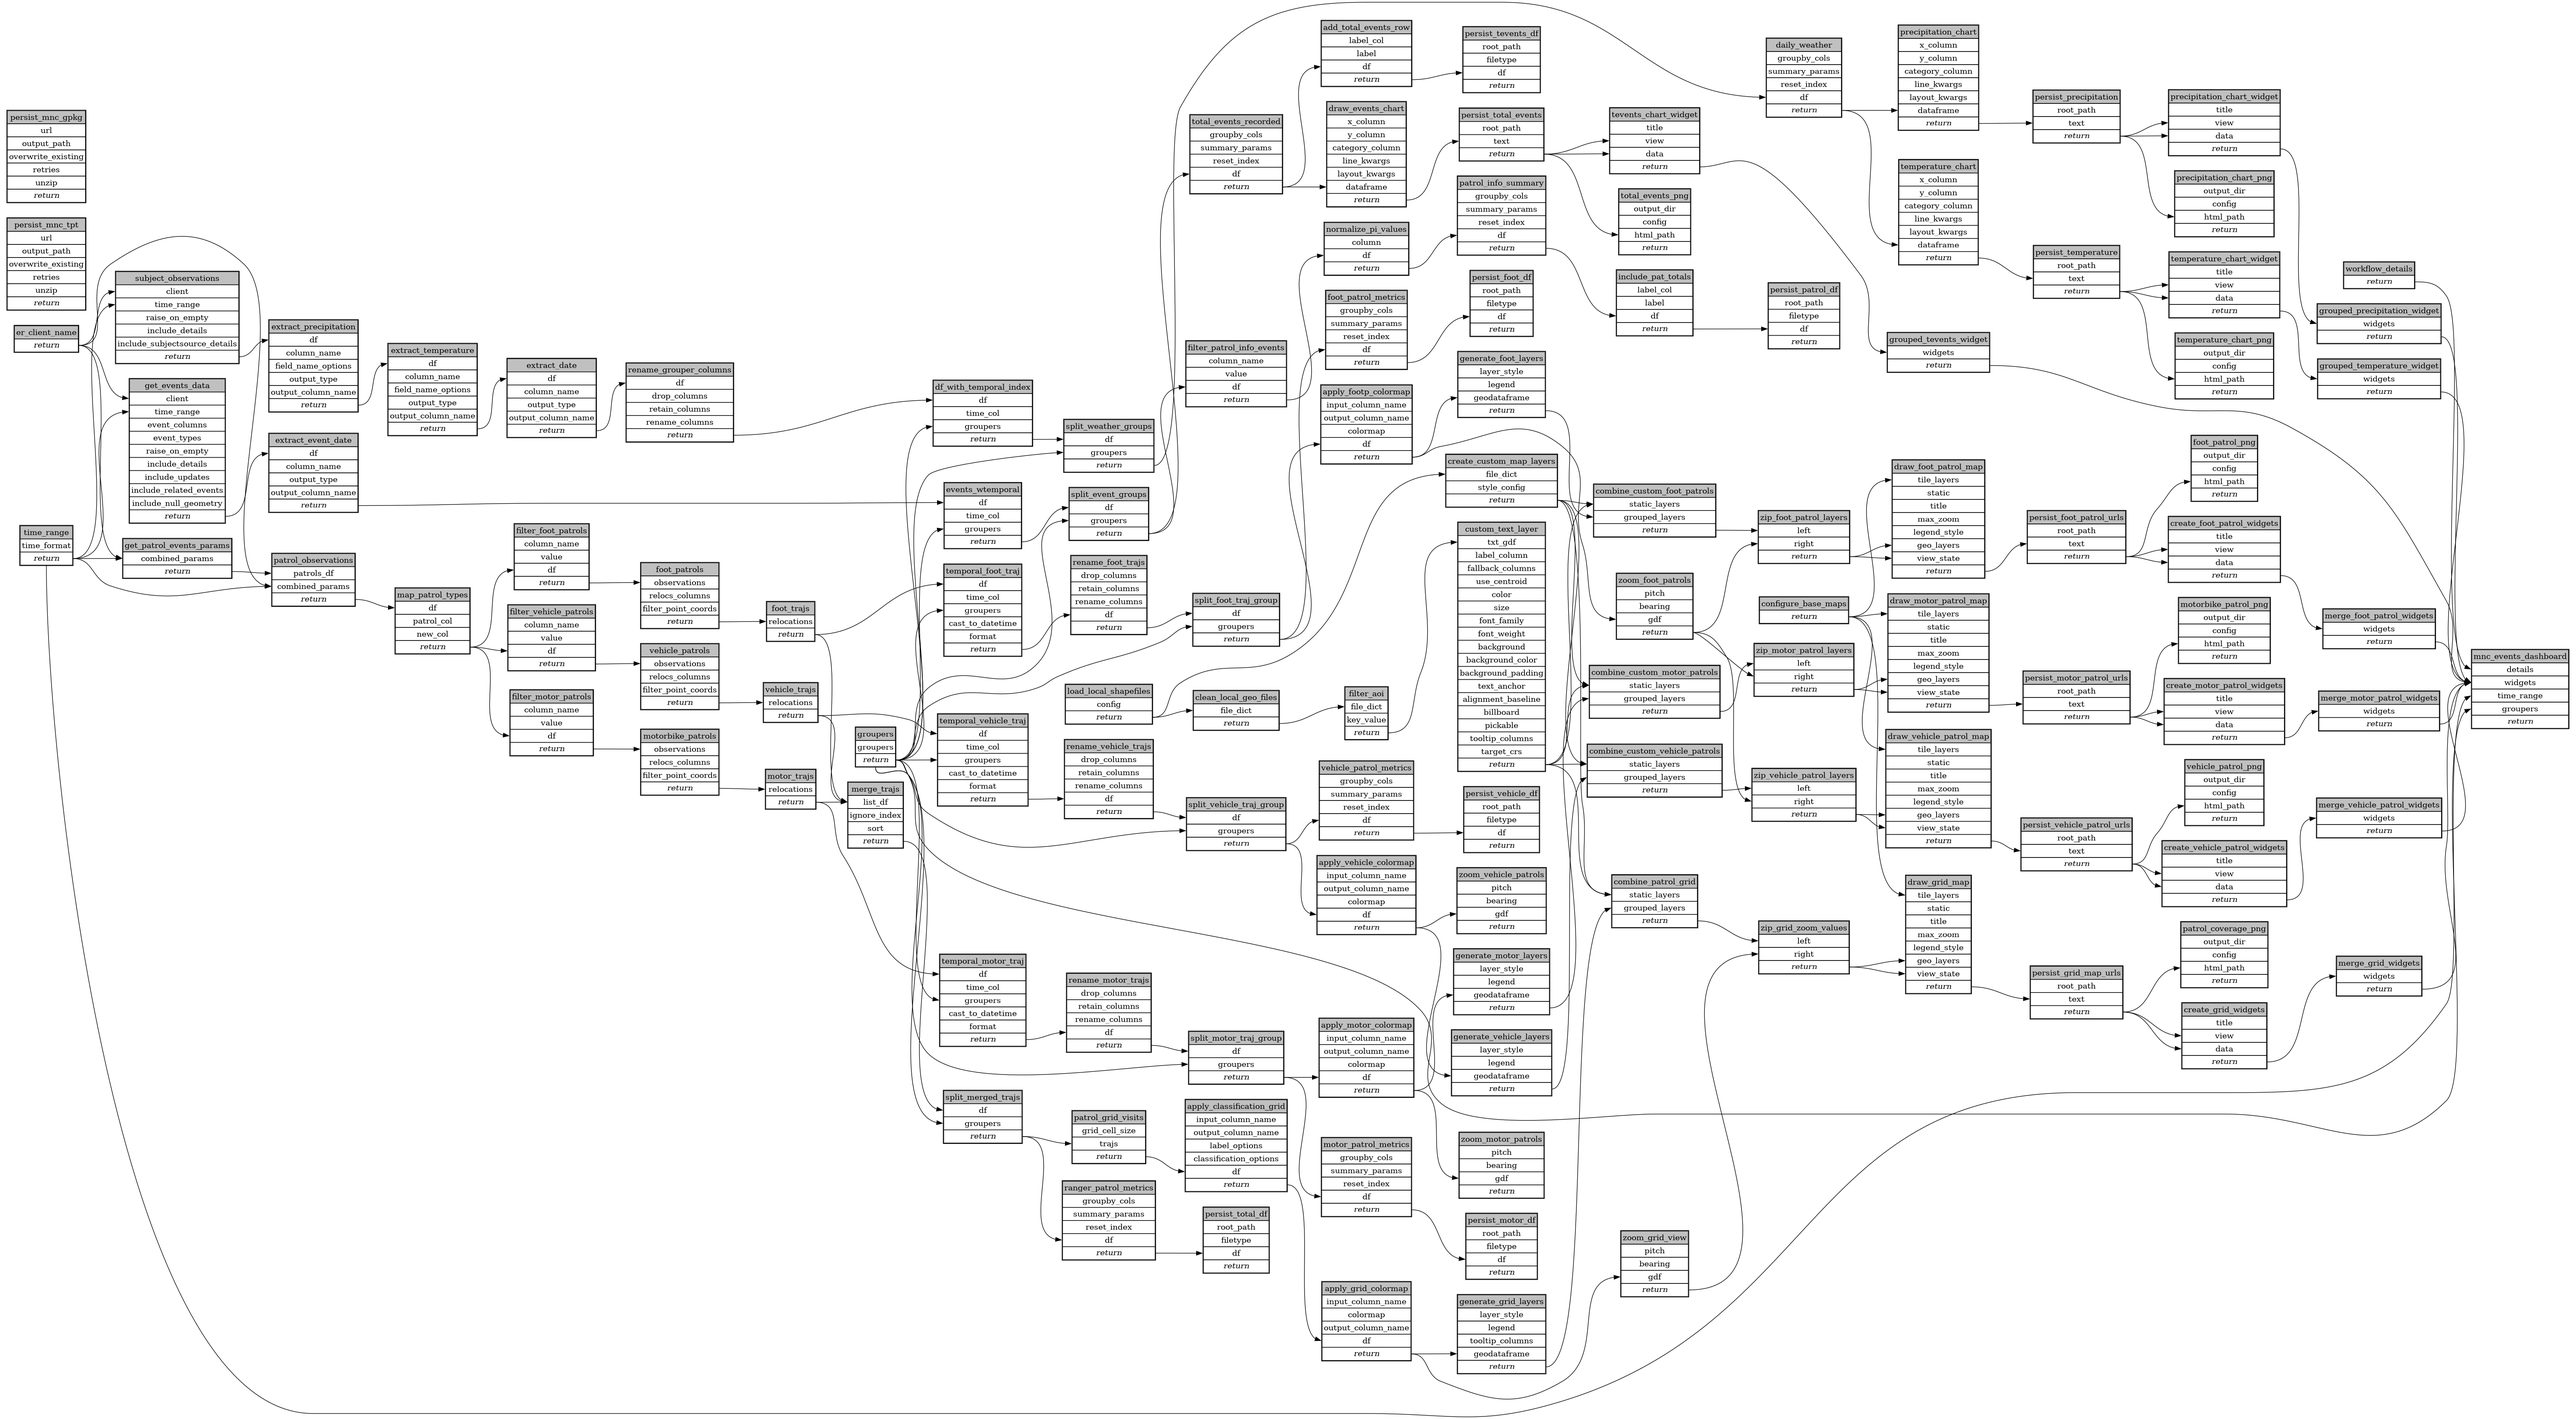
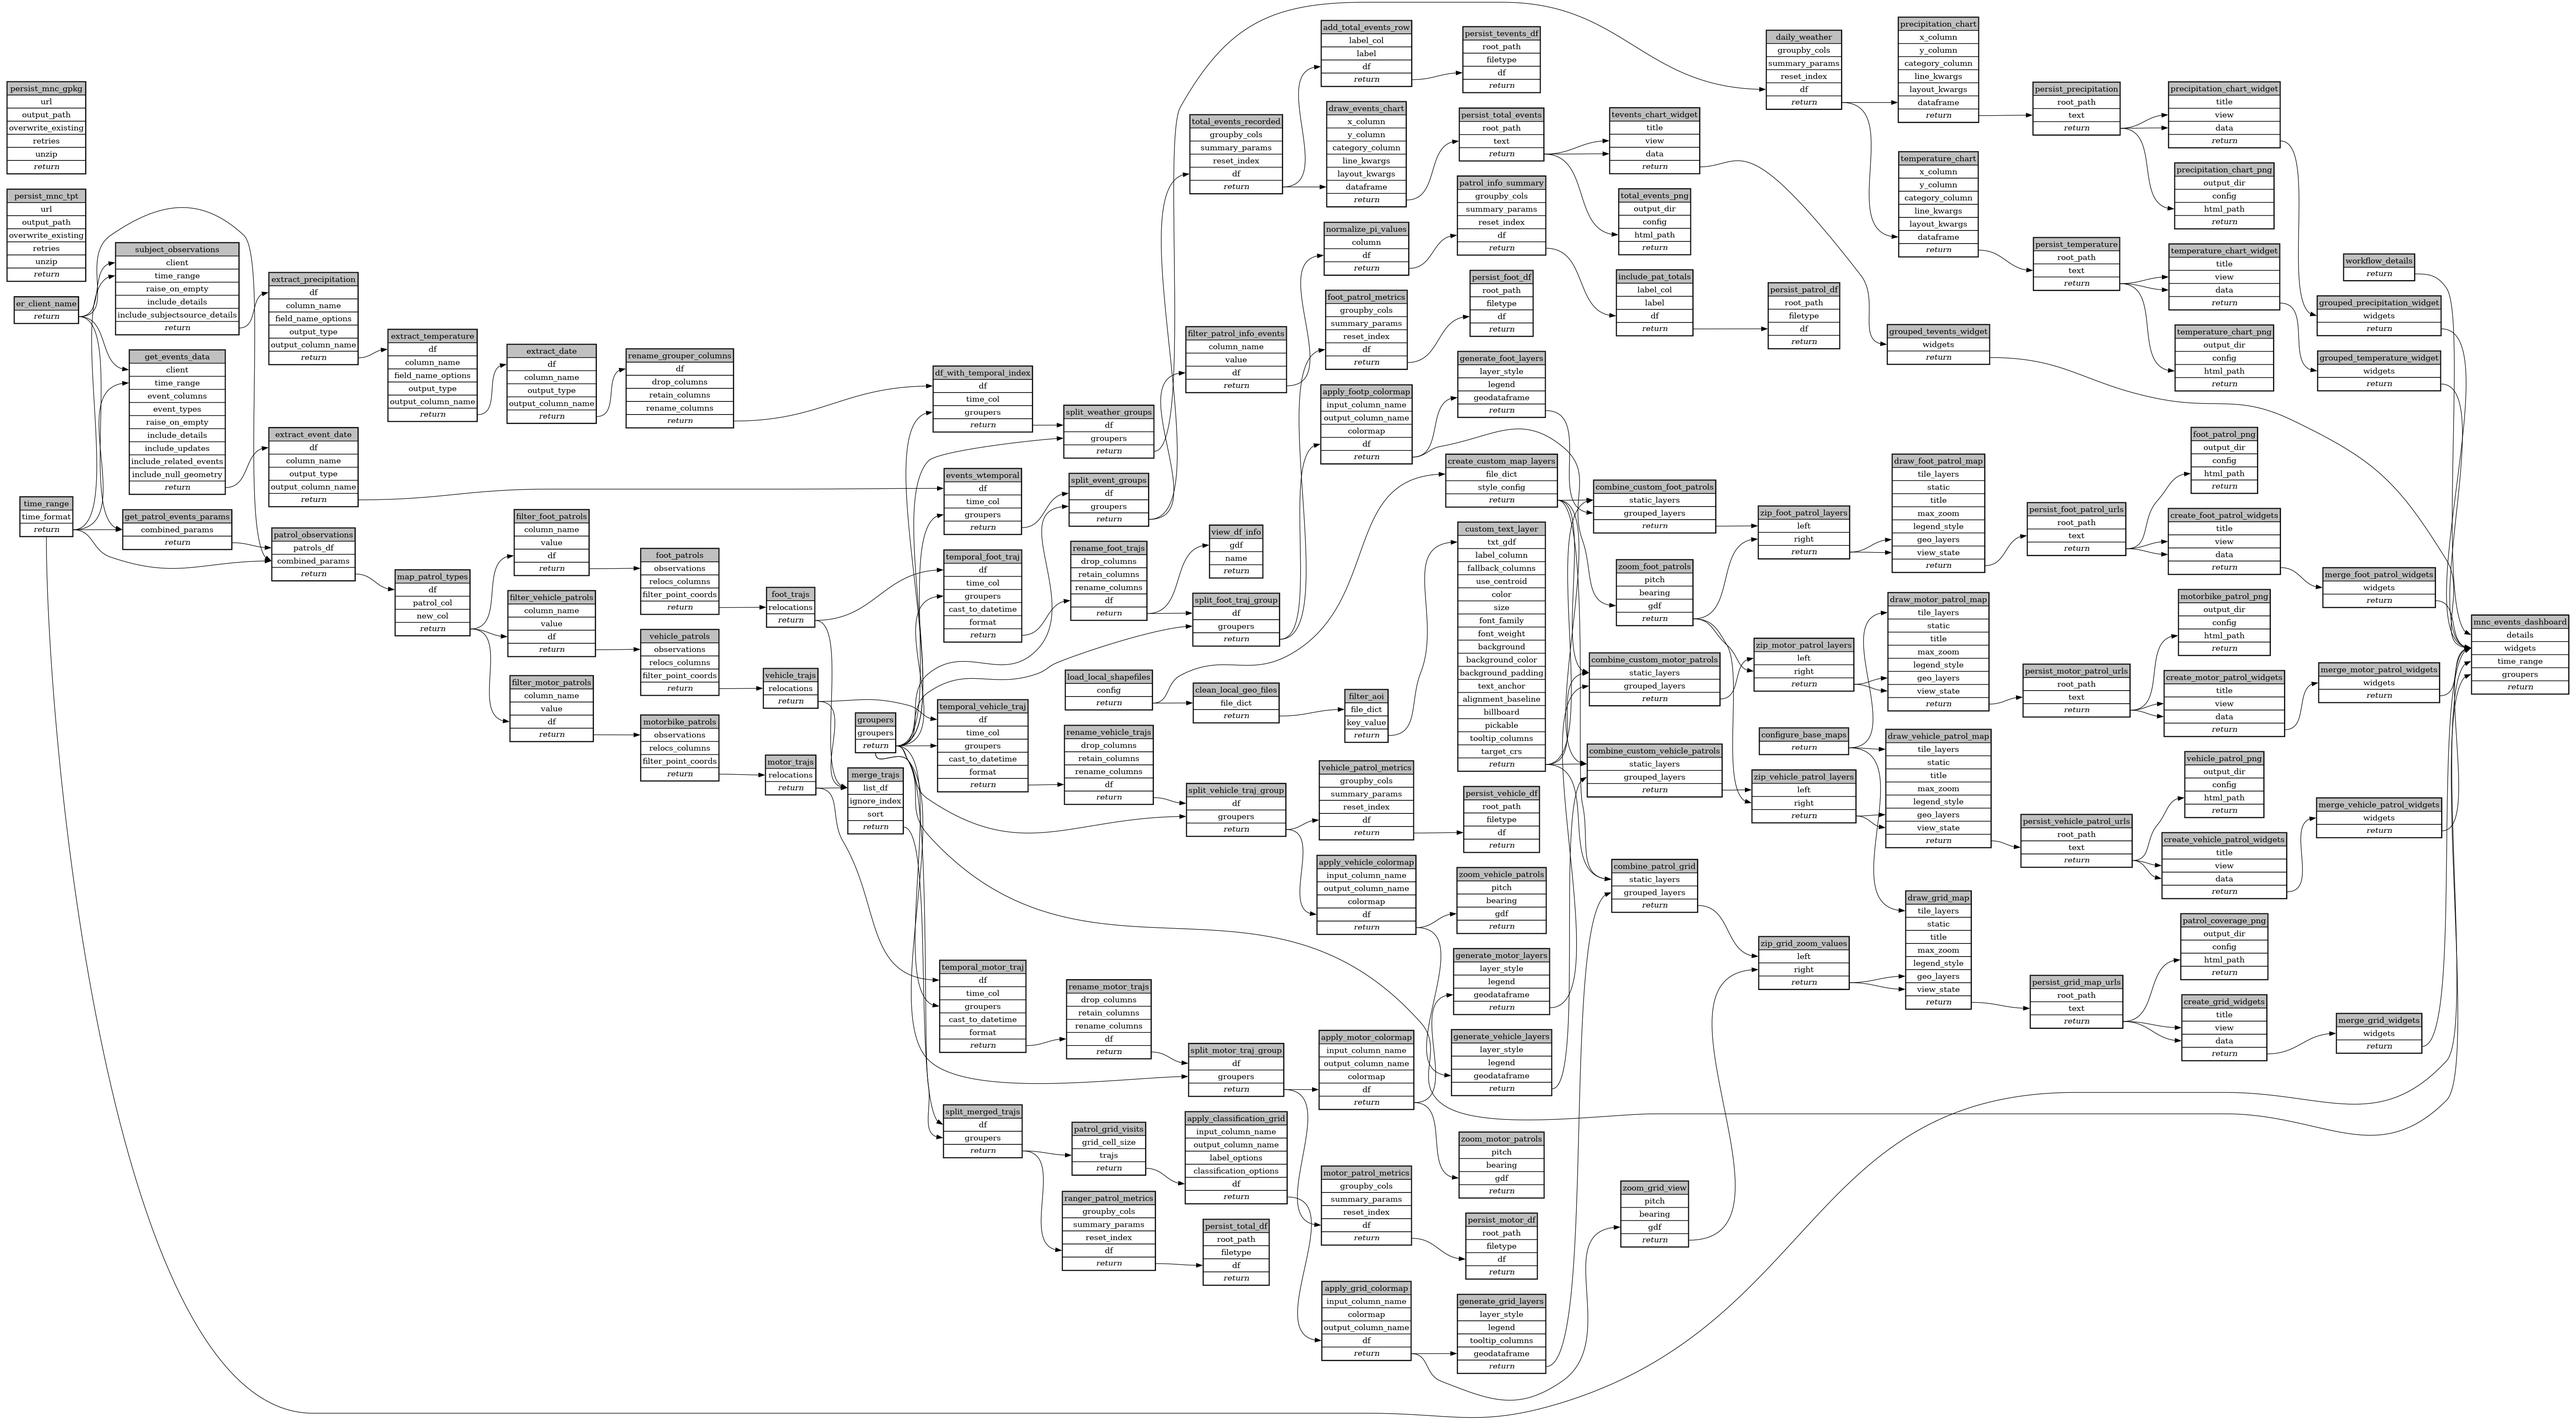
inspect generated patrol traj types

diff --git a/workflows/mara_north_event_report/ecoscope-workflows-mara-north-event-report-workflow/ecoscope_workflows_mara_north_event_report_workflow/dags/run_async_mock_io.py b/workflows/mara_north_event_report/ecoscope-workflows-mara-north-event-report-workflow/ecoscope_workflows_mara_north_event_report_workflow/dags/run_async_mock_io.py
@@ -93,6 +93,7 @@ from ecoscope_workflows_ext_mnc.tasks import (
     get_patrols_from_combined_parameters,
     merge_multiple_df,
     merge_static_and_grouped_layers,
+    view_df,
     view_state_deck_gdf,
     zip_grouped_by_key,
 )
@@ -172,6 +173,7 @@ def main(params: Params):
         "rename_foot_trajs": ["temporal_foot_traj"],
         "rename_vehicle_trajs": ["temporal_vehicle_traj"],
         "rename_motor_trajs": ["temporal_motor_traj"],
+        "view_df_info": ["rename_foot_trajs"],
         "split_foot_traj_group": ["rename_foot_trajs", "groupers"],
         "split_vehicle_traj_group": ["rename_vehicle_trajs", "groupers"],
         "split_motor_traj_group": ["rename_motor_trajs", "groupers"],
@@ -186,7 +188,7 @@ def main(params: Params):
             "generate_foot_layers",
         ],
         "zip_foot_patrol_layers": ["combine_custom_foot_patrols", "zoom_foot_patrols"],
-        "draw_foot_patrol_map": ["configure_base_maps", "zip_foot_patrol_layers"],
+        "draw_foot_patrol_map": ["zip_foot_patrol_layers"],
         "persist_foot_patrol_urls": ["draw_foot_patrol_map"],
         "create_foot_patrol_widgets": ["persist_foot_patrol_urls"],
         "merge_foot_patrol_widgets": ["create_foot_patrol_widgets"],
@@ -1368,6 +1370,17 @@ def main(params: Params):
             | (params_dict.get("rename_motor_trajs") or {}),
             method="call",
         ),
+        "view_df_info": Node(
+            async_task=view_df.validate()
+            .handle_errors(task_instance_id="view_df_info")
+            .set_executor("lithops"),
+            partial={
+                "gdf": DependsOn("rename_foot_trajs"),
+                "name": "Foot patrol trajectories",
+            }
+            | (params_dict.get("view_df_info") or {}),
+            method="call",
+        ),
         "split_foot_traj_group": Node(
             async_task=split_groups.validate()
             .handle_errors(task_instance_id="split_foot_traj_group")
@@ -1556,7 +1569,10 @@ def main(params: Params):
             .handle_errors(task_instance_id="draw_foot_patrol_map")
             .set_executor("lithops"),
             partial={
-                "tile_layers": DependsOn("configure_base_maps"),
+                "tile_layers": [
+                    {"layer_name": "TERRAIN", "opacity": 0.35, "max_zoom": 15},
+                    {"layer_name": "USGS HILLSHADE", "opacity": 0.75, "max_zoom": 15},
+                ],
                 "static": False,
                 "title": None,
                 "max_zoom": 15,

diff --git a/workflows/mara_north_event_report/ecoscope-workflows-mara-north-event-report-workflow/ecoscope_workflows_mara_north_event_report_workflow/dags/run_async.py b/workflows/mara_north_event_report/ecoscope-workflows-mara-north-event-report-workflow/ecoscope_workflows_mara_north_event_report_workflow/dags/run_async.py
@@ -60,6 +60,7 @@ from ecoscope_workflows_ext_mnc.tasks import (
     merge_static_and_grouped_layers,
     select_koi,
     set_base_maps_aliased,
+    view_df,
     view_state_deck_gdf,
     zip_grouped_by_key,
 )
@@ -137,6 +138,7 @@ def main(params: Params):
         "rename_foot_trajs": ["temporal_foot_traj"],
         "rename_vehicle_trajs": ["temporal_vehicle_traj"],
         "rename_motor_trajs": ["temporal_motor_traj"],
+        "view_df_info": ["rename_foot_trajs"],
         "split_foot_traj_group": ["rename_foot_trajs", "groupers"],
         "split_vehicle_traj_group": ["rename_vehicle_trajs", "groupers"],
         "split_motor_traj_group": ["rename_motor_trajs", "groupers"],
@@ -151,7 +153,7 @@ def main(params: Params):
             "generate_foot_layers",
         ],
         "zip_foot_patrol_layers": ["combine_custom_foot_patrols", "zoom_foot_patrols"],
-        "draw_foot_patrol_map": ["configure_base_maps", "zip_foot_patrol_layers"],
+        "draw_foot_patrol_map": ["zip_foot_patrol_layers"],
         "persist_foot_patrol_urls": ["draw_foot_patrol_map"],
         "create_foot_patrol_widgets": ["persist_foot_patrol_urls"],
         "merge_foot_patrol_widgets": ["create_foot_patrol_widgets"],
@@ -1333,6 +1335,17 @@ def main(params: Params):
             | (params_dict.get("rename_motor_trajs") or {}),
             method="call",
         ),
+        "view_df_info": Node(
+            async_task=view_df.validate()
+            .handle_errors(task_instance_id="view_df_info")
+            .set_executor("lithops"),
+            partial={
+                "gdf": DependsOn("rename_foot_trajs"),
+                "name": "Foot patrol trajectories",
+            }
+            | (params_dict.get("view_df_info") or {}),
+            method="call",
+        ),
         "split_foot_traj_group": Node(
             async_task=split_groups.validate()
             .handle_errors(task_instance_id="split_foot_traj_group")
@@ -1521,7 +1534,10 @@ def main(params: Params):
             .handle_errors(task_instance_id="draw_foot_patrol_map")
             .set_executor("lithops"),
             partial={
-                "tile_layers": DependsOn("configure_base_maps"),
+                "tile_layers": [
+                    {"layer_name": "TERRAIN", "opacity": 0.35, "max_zoom": 15},
+                    {"layer_name": "USGS HILLSHADE", "opacity": 0.75, "max_zoom": 15},
+                ],
                 "static": False,
                 "title": None,
                 "max_zoom": 15,

diff --git a/workflows/mara_north_event_report/ecoscope-workflows-mara-north-event-report-workflow/ecoscope_workflows_mara_north_event_report_workflow/dags/run_sequential_mock_io.py b/workflows/mara_north_event_report/ecoscope-workflows-mara-north-event-report-workflow/ecoscope_workflows_mara_north_event_report_workflow/dags/run_sequential_mock_io.py
@@ -92,6 +92,7 @@ from ecoscope_workflows_ext_mnc.tasks import (
     get_patrols_from_combined_parameters,
     merge_multiple_df,
     merge_static_and_grouped_layers,
+    view_df,
     view_state_deck_gdf,
     zip_grouped_by_key,
 )
@@ -1117,6 +1118,17 @@ def main(params: Params):
         .call()
     )
 
+    view_df_info = (
+        view_df.validate()
+        .handle_errors(task_instance_id="view_df_info")
+        .partial(
+            gdf=rename_foot_trajs,
+            name="Foot patrol trajectories",
+            **(params_dict.get("view_df_info") or {}),
+        )
+        .call()
+    )
+
     split_foot_traj_group = (
         split_groups.validate()
         .handle_errors(task_instance_id="split_foot_traj_group")
@@ -1271,7 +1283,10 @@ def main(params: Params):
         draw_custom_map.validate()
         .handle_errors(task_instance_id="draw_foot_patrol_map")
         .partial(
-            tile_layers=configure_base_maps,
+            tile_layers=[
+                {"layer_name": "TERRAIN", "opacity": 0.35, "max_zoom": 15},
+                {"layer_name": "USGS HILLSHADE", "opacity": 0.75, "max_zoom": 15},
+            ],
             static=False,
             title=None,
             max_zoom=15,

diff --git a/workflows/mara_north_event_report/ecoscope-workflows-mara-north-event-report-workflow/ecoscope_workflows_mara_north_event_report_workflow/dags/run_sequential.py b/workflows/mara_north_event_report/ecoscope-workflows-mara-north-event-report-workflow/ecoscope_workflows_mara_north_event_report_workflow/dags/run_sequential.py
@@ -59,6 +59,7 @@ from ecoscope_workflows_ext_mnc.tasks import (
     merge_static_and_grouped_layers,
     select_koi,
     set_base_maps_aliased,
+    view_df,
     view_state_deck_gdf,
     zip_grouped_by_key,
 )
@@ -1082,6 +1083,17 @@ def main(params: Params):
         .call()
     )
 
+    view_df_info = (
+        view_df.validate()
+        .handle_errors(task_instance_id="view_df_info")
+        .partial(
+            gdf=rename_foot_trajs,
+            name="Foot patrol trajectories",
+            **(params_dict.get("view_df_info") or {}),
+        )
+        .call()
+    )
+
     split_foot_traj_group = (
         split_groups.validate()
         .handle_errors(task_instance_id="split_foot_traj_group")
@@ -1236,7 +1248,10 @@ def main(params: Params):
         draw_custom_map.validate()
         .handle_errors(task_instance_id="draw_foot_patrol_map")
         .partial(
-            tile_layers=configure_base_maps,
+            tile_layers=[
+                {"layer_name": "TERRAIN", "opacity": 0.35, "max_zoom": 15},
+                {"layer_name": "USGS HILLSHADE", "opacity": 0.75, "max_zoom": 15},
+            ],
             static=False,
             title=None,
             max_zoom=15,

diff --git a/workflows/mara_north_event_report/ecoscope-workflows-mara-north-event-report-workflow/ecoscope_workflows_mara_north_event_report_workflow/dags/jupytext.py b/workflows/mara_north_event_report/ecoscope-workflows-mara-north-event-report-workflow/ecoscope_workflows_mara_north_event_report_workflow/dags/jupytext.py
@@ -69,6 +69,7 @@ from ecoscope_workflows_ext_mnc.tasks import (
     merge_static_and_grouped_layers,
     select_koi,
     set_base_maps_aliased,
+    view_df,
     view_state_deck_gdf,
     zip_grouped_by_key,
 )
@@ -1843,6 +1844,27 @@ rename_motor_trajs = (
 
 
 # %% [markdown]
+# ## view dataframe info
+
+# %%
+# parameters
+
+view_df_info_params = dict()
+
+# %%
+# call the task
+
+
+view_df_info = (
+    view_df.handle_errors(task_instance_id="view_df_info")
+    .partial(
+        gdf=rename_foot_trajs, name="Foot patrol trajectories", **view_df_info_params
+    )
+    .call()
+)
+
+
+# %% [markdown]
 # ## Split foot trajectories by group
 
 # %%
@@ -2123,7 +2145,10 @@ draw_foot_patrol_map_params = dict(
 draw_foot_patrol_map = (
     draw_custom_map.handle_errors(task_instance_id="draw_foot_patrol_map")
     .partial(
-        tile_layers=configure_base_maps,
+        tile_layers=[
+            {"layer_name": "TERRAIN", "opacity": 0.35, "max_zoom": 15},
+            {"layer_name": "USGS HILLSHADE", "opacity": 0.75, "max_zoom": 15},
+        ],
         static=False,
         title=None,
         max_zoom=15,

diff --git a/workflows/mara_north_event_report/ecoscope-workflows-mara-north-event-report-workflow/README.md b/workflows/mara_north_event_report/ecoscope-workflows-mara-north-event-report-workflow/README.md
@@ -5,8 +5,8 @@
 
 ```yaml
 # fingerprint:
-artifacts_sha256_basic: a06db6ee4e9fd94245ceec85bee69ce2d428175247e2b844a6285bbfae08880d
-artifacts_sha256_strict: 1d9ca9185ca1822ca544c9ab5d6f7bbaea772196ece0b4e76d8c774f3c87cd28
+artifacts_sha256_basic: 0674afe2314b02ddf25c97a1836a6a254e2e0a8add7c788a41d179e33b6ae641
+artifacts_sha256_strict: e34e2381b8ac1a4740c3c253bbe3e68cd572d07a8ce38bb0421939c3ff0f7e65
 installed_requirements:
 - channel: https://repo.prefix.dev/ecoscope-workflows/
   name: ecoscope-workflows-core
@@ -19,9 +19,9 @@ installed_requirements:
   version: {version: ==0.0.6}
 - channel: file:///tmp/ecoscope-workflows-custom/release/artifacts/
   name: ecoscope-workflows-ext-mnc
-  version: {version: ==10000.dev54+g5352ac38.d20251107}
+  version: {version: ==10000.dev55+g7840e57a6.d20251107}
 params_sha256: d3f23f12af0b1e64d1aacf1aff95dd678fb26c850f02f6538a8e955cbaf183c9
-spec_sha256: 3b9ebf2a41b705bcdae3e0d31994ad4f9b15881940e7ccb091fce23ad37ea2e3
+spec_sha256: 43502cc502bce8633d8968c95e3cac5fe4caad2f9ff683677726c5d27419272f
 
 ```
 
